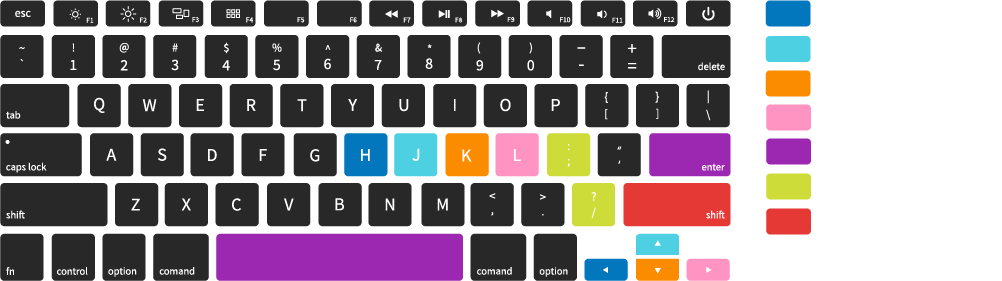
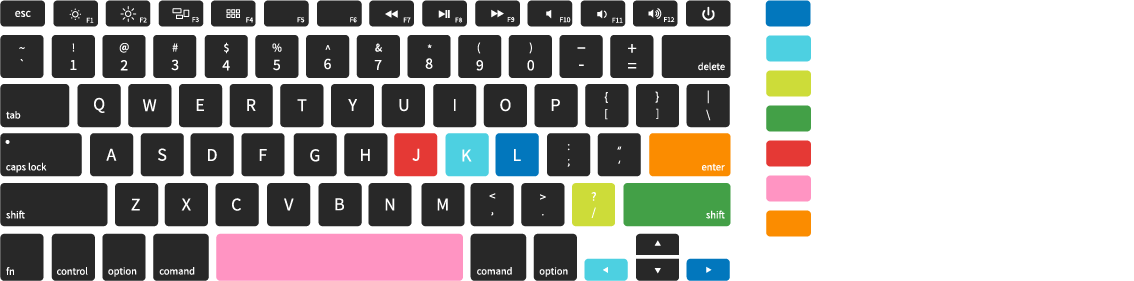
finished prototype v2

diff --git a/src/js/travel-planner.js b/src/js/travel-planner.js
@@ -1,0 +1,113 @@
+const btnSubmit = document.querySelector('#submitButton'),
+    departureStationSelect = document.querySelector('#departureStation'),
+    arrivalStationSelect = document.querySelector('#arrivalStation'),
+    swap = document.querySelector('.swap'),
+    addOneHour = document.querySelector('#addOneHour'),
+    addTwoHours = document.querySelector('#addTwoHours'),
+    travelPlan = document.querySelector('.travel-plan');
+
+let startTime,
+    departureStation = '',
+    arrivalStation = '';
+
+// https://stackoverflow.com/questions/5416767/get-selected-value-text-from-select-on-change
+
+if (departureStationSelect) departureStationSelect.addEventListener('change', function(event) {
+    departureStation = event.target.value;
+    arrivalStation = arrivalStationSelect.value;
+
+    travelPlan.innerText = `Ik wil graag de treinen zien die nu van ${departureStation} naar ${arrivalStation} gaan.`;
+
+    console.log(departureStation, arrivalStation);
+});
+
+swap.addEventListener('click', swapDestinations);
+
+if (arrivalStationSelect) arrivalStationSelect.addEventListener('change', function(event) {
+    arrivalStation = event.target.value;
+    departureStation = departureStationSelect.value;
+
+    travelPlan.innerText = `Ik wil graag de treinen zien die nu van ${departureStation} naar ${arrivalStation} gaan.`;
+
+    console.log(departureStation, arrivalStation);
+});
+
+addOneHour.addEventListener('click', addOneHourToCurrentTime);
+addTwoHours.addEventListener('click', addTwoHoursToCurrentTime);
+
+btnSubmit.addEventListener('click', getUrl);
+
+function getUrl(event){
+    event.preventDefault();
+
+    startTime = startTime === undefined ? getCurrentTime() : startTime;
+
+    location.href=`https://www.ns.nl/reisplanner/#/?vertrek=${departureStationSelect.value}&vertrektype=treinstation&aankomst=${arrivalStationSelect.value}&aankomsttype=treinstation&type=vertrek&tijd=${getCurrentDate()}T${startTime}`;
+}
+
+function getCurrentDate() {
+    let today = new Date();
+    const day = String(today.getDate()).padStart(2, '0'),
+        month = String(today.getMonth() + 1).padStart(2, '0'),
+        year = today.getFullYear();
+
+    return `${year}-${month}-${day}`;
+}
+
+// https://stackoverflow.com/questions/5853492/change-select-value-on-click-with-javascript
+function swapDestinations(event) {
+    event.preventDefault();
+
+    if(departureStationSelect.value === 'Eindhoven') {
+        departureStationSelect.value = 'Amsterdam'; //change it's value
+    } else if (departureStationSelect.value === 'Amsterdam') {
+        departureStationSelect.value = 'Eindhoven';
+    }
+
+    if(arrivalStationSelect.value === 'Eindhoven') {
+        arrivalStationSelect.value = 'Amsterdam'; //change it's value
+    } else if (arrivalStationSelect.value === 'Amsterdam') {
+        arrivalStationSelect.value = 'Eindhoven';
+    }
+
+    travelPlan.innerText = `Ik wil graag de treinen zien die nu van ${departureStationSelect.value} naar ${arrivalStationSelect.value} gaan.`;
+}
+
+function addOneHourToCurrentTime(event) {
+    event.preventDefault();
+
+    addOneHour.classList.add('active');
+    addTwoHours.classList.remove('active');
+
+    startTime = getTime(1);
+
+    travelPlan.innerText = `Ik wil graag de treinen zien die over 1 uur van ${departureStationSelect.value} naar ${arrivalStationSelect.value} gaan.`;
+}
+
+function addTwoHoursToCurrentTime(event) {
+    event.preventDefault();
+
+    startTime = getTime(2);
+
+    addOneHour.classList.remove('active');
+    addTwoHours.classList.add('active');
+
+    travelPlan.innerText = `Ik wil graag de treinen zien die over 2 uur van ${departureStationSelect.value} naar ${arrivalStationSelect.value} gaan.`;
+}
+
+// https://stackoverflow.com/questions/10599148/how-do-i-get-the-current-time-only-in-javascript
+function getTime(hours) {
+    let d = new Date(),
+        h = (d.getHours() < 10 ? '0' : '') + (d.getHours() + hours),
+        m = (d.getMinutes() < 10 ? '0' : '') + d.getMinutes();
+
+    return h + ':' + m;
+}
+
+function getCurrentTime() {
+    let d = new Date(),
+        h = (d.getHours() < 10 ? '0' : '') + d.getHours(),
+        m = (d.getMinutes() < 10 ? '0' : '') + d.getMinutes();
+
+    return h + ':' + m;
+}

diff --git a/src/js/focus.js b/src/js/focus.js
@@ -1,8 +1,8 @@
-const focussableElements = document.querySelectorAll('.focussable');
-const state = {
-    focussedElement: null,
-    previousKey: null,
-};
+const focussableElements = document.querySelectorAll('.focussable'),
+    form = document.querySelector('.form'),
+    state = {
+        focussedElement: null,
+    };
 
 function focusElement() {
     console.log('added focus!');
@@ -16,28 +16,56 @@ function focusElement() {
 }
 
 function focusNextElement(event) {
-    if (event.key !== 'Shift' && event.key !== '/') {
+    event.preventDefault();
+
+    keysForwardAndBack(event, focussableElements, 'ArrowLeft', 'ArrowRight');
+    keysForwardAndBack(event, focussableElements, 'Shift', '/');
+    keysForwardAndBack(event, focussableElements, 'k', 'l');
+
+    focusSpecificElement(event, btnSubmit, ' ');
+    focusSpecificElement(event, swap, 'j');
+    click(event, 'Enter');
+}
+
+function keysForwardAndBack(event, focussableElements, backKey, forwardKey) {
+    if (event.key !== forwardKey && event.key !== backKey) {
         return;
     }
 
-    event.preventDefault();
-
-    const {previousKey, focussedElement} = state;
+    const {focussedElement} = state;
     const currentIndex = focussedElement ? [...focussableElements].findIndex(focussable => focussable === focussedElement) : -1;
 
-    console.log('current index: ', currentIndex);
-
-    if (previousKey !== 'Shift' && event.key === '/') {
+    if (event.key === forwardKey) {
         const nextIndex = currentIndex + 1 > focussableElements.length ? 0 : currentIndex + 1;
         const element = focussableElements[nextIndex];
         element.focus();
-    } else if (previousKey === 'Shift' && event.key === '/') {
+    } else if (event.key === backKey) {
         const previousIndex = currentIndex - 1 < 0 ? 0 : currentIndex - 1;
         const element = focussableElements[previousIndex];
         element.focus();
     }
+}
 
-    state.previousKey = event.key;
+function click(event, key){
+    if (event.key !== key) {
+        return;
+    }
+
+    const {focussedElement} = state;
+
+    if (event.key === key) {
+        focussedElement.click();
+    }
+}
+
+function focusSpecificElement(event, element, key) {
+    if (event.key !== key) {
+        return;
+    }
+
+    if (event.key === key) {
+        element.focus();
+    }
 }
 
 focusElement();

diff --git a/server.js b/server.js
@@ -14,33 +14,6 @@ const cacheMiddleWare = (req, res, next) => {
     next();
 };
 
-const getCurrentDay = (d) => {
-    //get the day
-    //convert day to string
-    let day = d.getDate().toString();
-
-    return day;
-},
-
-getCurrentMonth = (d) => {
-    //get the month
-    let month = d.getMonth();
-
-    return month;
-},
-
-getCurrentYear = (d) => {
-    //get the year
-    let year = d.getFullYear();
-
-    //pull the last two digits of the year
-    year = year.toString().substr(-2);
-
-    return year;
-};
-
-let d = new Date();
-
 // gzip files
 app.use(compression())
     // cache css and js files and images
@@ -53,7 +26,7 @@ app.use(compression())
     .use(express.static('static'))
 
     .get('/', (req, res) => {
-        router.pageWithData(res, 'home', 'Marijn\'s NS Reisplanner', getCurrentDay(d), getCurrentMonth(d), getCurrentYear(d), revManifest);
+        router.basicPage(res, 'home', 'Marijn\'s NS Reisplanner', revManifest);
     })
 
     .get('/offline', (req, res) => {

diff --git a/src/scss/components/_forms.scss b/src/scss/components/_forms.scss
@@ -9,13 +9,17 @@
     }
 
     label {
+        display: flex;
+        flex-direction: column;
+        align-items: center;
+
         margin: 0 1rem;
 
         select {
             height: 45px;
             font-size: 16px;
             width: 100px;
-            margin-left: 1rem;
+            margin-top: 0.5rem;
             border-radius: 4px;
             transition: box-shadow .15s ease-in-out;
 
@@ -54,6 +58,15 @@
             &:not(:last-child) {
                 margin-right: 1rem;
             }
+        }
+    }
+
+    .travel_from-to {
+        display: flex;
+        align-items: flex-end;
+
+        button {
+            min-width: auto;
         }
     }
 }

diff --git a/src/scss/_global.scss b/src/scss/_global.scss
@@ -7,7 +7,7 @@ body {
 }
 
 h1 {
-    margin: 3.5rem 0;
+    margin: 2.75rem 0;
 }
 
 .header-wrapper {
@@ -19,7 +19,7 @@ h1 {
     position: relative;
     display: flex;
     justify-content: center;
-    margin-top: 11.5rem;
+    margin-top: 6.5rem;
 }
 
 .logo {
@@ -31,4 +31,11 @@ h1 {
     img {
         width: 150px;
     }
+}
+
+.travel-plan {
+    max-width: 400px;
+    word-wrap: break-word; /* Fallback */
+    overflow-wrap: break-word;
+    margin-bottom: 2.5rem;
 }

diff --git a/src/scss/_typography.scss b/src/scss/_typography.scss
@@ -10,7 +10,9 @@ html {
 
 body {
     font-size: 16px;
+    font-size: 1rem;
     color: $color-white;
+    line-height: 1.5em;
 }
 
 h1 {
@@ -33,4 +35,8 @@ h2 {
         color: $color-white;
         text-align: center;
     }
+}
+
+.travel-plan {
+    text-align: center;
 }

diff --git a/scripts/build/build-js.js b/scripts/build/build-js.js
@@ -4,7 +4,7 @@ const gulp = require('gulp'),
 
 return gulp.src([
     './src/js/focus.js',
-    './src/js/datepicker.js',
+    './src/js/travel-planner.js',
 ])
     .pipe(concat('index.js'))
     .pipe(minify())

diff --git a/src/scss/_mixins.scss b/src/scss/_mixins.scss
@@ -4,6 +4,7 @@
     padding: .625rem 1.125rem;
     vertical-align: top;
     min-width: 7.5rem;
+    height: 45px;
     font-weight: 400;
     white-space: nowrap;
     text-align: center;

diff --git a/src/scss/components/_buttons.scss b/src/scss/components/_buttons.scss
@@ -9,4 +9,8 @@ button {
     &.btn-secondary {
         @include btn-secondary;
     }
+
+    &.active {
+        background-color: $ns-secondary-dark;
+    }
 }

diff --git a/src/scss/components/_legenda.scss b/src/scss/components/_legenda.scss
@@ -7,6 +7,6 @@
     width: 100%;
 
     img {
-        width: 65vw;
+        width: 900px;
     }
 }
